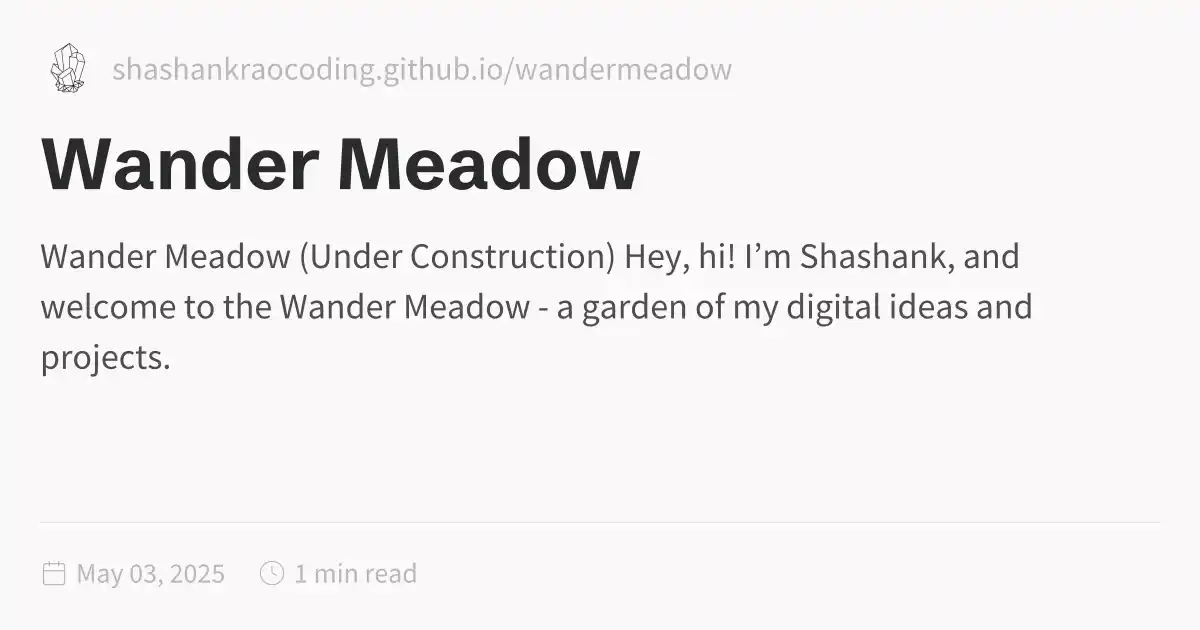
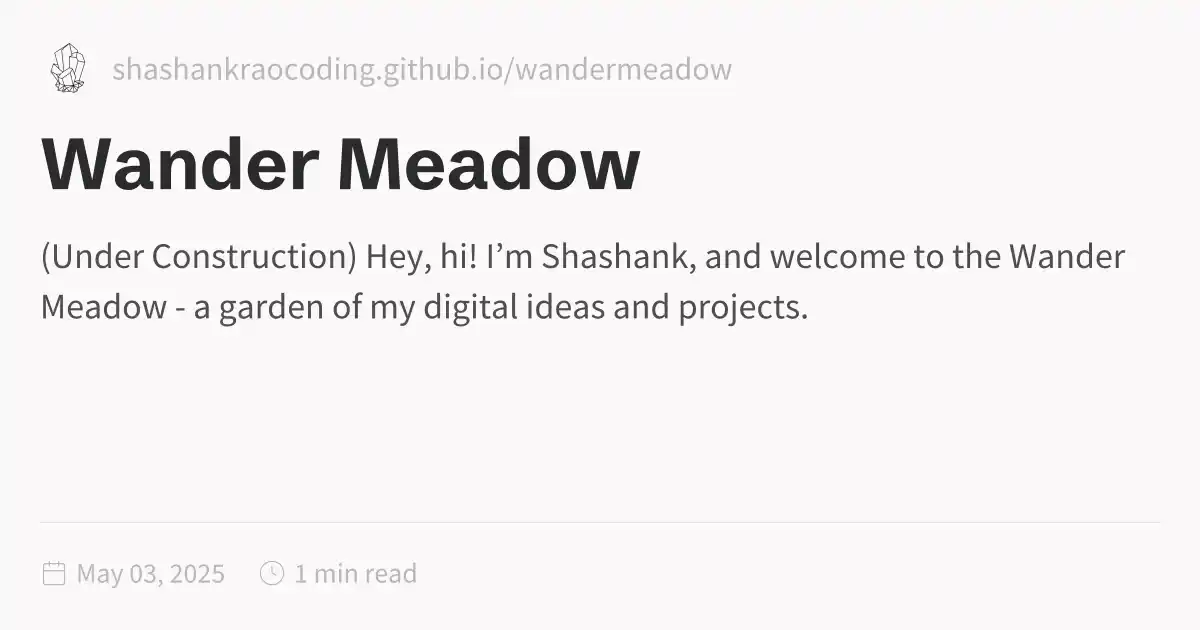
Update public folder - 2025-05-03\_1445

Changed region(s): [[0.0308, 0.3921, 0.9558, 0.5127], [0.0308, 0.5429, 0.1542, 0.6032]]

diff --git a/Wander-Meadow.html b/Wander-Meadow.html
@@ -1,5 +1,5 @@
 <!DOCTYPE html>
-<html lang="en"><head><title>Wander Meadow</title><meta charset="utf-8"/><link rel="preconnect" href="https://fonts.googleapis.com"/><link rel="preconnect" href="https://fonts.gstatic.com"/><link rel="stylesheet" href="https://fonts.googleapis.com/css2?family=Schibsted Grotesk:wght@400;700&amp;family=Source Sans Pro:ital,wght@0,400;0,600;1,400;1,600&amp;family=IBM Plex Mono:wght@400;600&amp;display=swap"/><link rel="preconnect" href="https://cdnjs.cloudflare.com" crossorigin="anonymous"/><meta name="viewport" content="width=device-width, initial-scale=1.0"/><meta name="og:site_name" content="Wander Meadow"/><meta property="og:title" content="Wander Meadow"/><meta property="og:type" content="website"/><meta name="twitter:card" content="summary_large_image"/><meta name="twitter:title" content="Wander Meadow"/><meta name="twitter:description" content="Wander Meadow (Under Construction) Hey, hi! I’m Shashank, and welcome to the Wander Meadow - a garden of my digital ideas and projects."/><meta property="og:description" content="Wander Meadow (Under Construction) Hey, hi! I’m Shashank, and welcome to the Wander Meadow - a garden of my digital ideas and projects."/><meta property="og:image:alt" content="Wander Meadow (Under Construction) Hey, hi! I’m Shashank, and welcome to the Wander Meadow - a garden of my digital ideas and projects."/><meta property="twitter:domain" content="shashankraocoding.github.io/wandermeadow"/><meta property="og:url" content="https://shashankraocoding.github.io/wandermeadow/Wander-Meadow"/><meta property="twitter:url" content="https://shashankraocoding.github.io/wandermeadow/Wander-Meadow"/><link rel="icon" href="./static/icon.png"/><meta name="description" content="Wander Meadow (Under Construction) Hey, hi! I’m Shashank, and welcome to the Wander Meadow - a garden of my digital ideas and projects."/><meta name="generator" content="Quartz"/><link href="./index.css" rel="stylesheet" type="text/css" spa-preserve/><style>.expand-button {
+<html lang="en"><head><title>Wander Meadow</title><meta charset="utf-8"/><link rel="preconnect" href="https://fonts.googleapis.com"/><link rel="preconnect" href="https://fonts.gstatic.com"/><link rel="stylesheet" href="https://fonts.googleapis.com/css2?family=Schibsted Grotesk:wght@400;700&amp;family=Source Sans Pro:ital,wght@0,400;0,600;1,400;1,600&amp;family=IBM Plex Mono:wght@400;600&amp;display=swap"/><link rel="preconnect" href="https://cdnjs.cloudflare.com" crossorigin="anonymous"/><meta name="viewport" content="width=device-width, initial-scale=1.0"/><meta name="og:site_name" content="Wander Meadow"/><meta property="og:title" content="Wander Meadow"/><meta property="og:type" content="website"/><meta name="twitter:card" content="summary_large_image"/><meta name="twitter:title" content="Wander Meadow"/><meta name="twitter:description" content="(Under Construction) Hey, hi! I’m Shashank, and welcome to the Wander Meadow - a garden of my digital ideas and projects."/><meta property="og:description" content="(Under Construction) Hey, hi! I’m Shashank, and welcome to the Wander Meadow - a garden of my digital ideas and projects."/><meta property="og:image:alt" content="(Under Construction) Hey, hi! I’m Shashank, and welcome to the Wander Meadow - a garden of my digital ideas and projects."/><meta property="twitter:domain" content="shashankraocoding.github.io/wandermeadow"/><meta property="og:url" content="https://shashankraocoding.github.io/wandermeadow/Wander-Meadow"/><meta property="twitter:url" content="https://shashankraocoding.github.io/wandermeadow/Wander-Meadow"/><link rel="icon" href="./static/icon.png"/><meta name="description" content="(Under Construction) Hey, hi! I’m Shashank, and welcome to the Wander Meadow - a garden of my digital ideas and projects."/><meta name="generator" content="Quartz"/><link href="./index.css" rel="stylesheet" type="text/css" spa-preserve/><style>.expand-button {
   position: absolute;
   display: flex;
   float: right;
@@ -116,8 +116,7 @@ pre:hover > .expand-button {
   padding: 0 12px;
   font-size: 14px;
 }
[1 lines of base64/hex data omitted]
-<p>(Under Construction)</p>
[1 lines of base64/hex data omitted]
 <p>Hey, hi!</p>
 <p>I’m Shashank, and welcome to the <em>Wander Meadow</em> -  a garden of my digital ideas and projects. Have a wander around, see if you like something! It’s all free to use, and if you’d like to get involved, to me at <a href="https://www.instagram.com/not_shashank_rao/" class="external">my Instagram page<svg aria-hidden="true" class="external-icon" style="max-width:0.8em;max-height:0.8em;" viewBox="0 0 512 512"><path d="M320 0H288V64h32 82.7L201.4 265.4 178.7 288 224 333.3l22.6-22.6L448 109.3V192v32h64V192 32 0H480 320zM32 32H0V64 480v32H32 456h32V480 352 320H424v32 96H64V96h96 32V32H160 32z"></path></svg></a>!</p>
 <h2 id="coding">Coding<a role="anchor" aria-hidden="true" tabindex="-1" data-no-popover="true" href="#coding" class="internal"><svg width="18" height="18" viewBox="0 0 24 24" fill="none" stroke="currentColor" stroke-width="2" stroke-linecap="round" stroke-linejoin="round"><path d="M10 13a5 5 0 0 0 7.54.54l3-3a5 5 0 0 0-7.07-7.07l-1.72 1.71"></path><path d="M14 11a5 5 0 0 0-7.54-.54l-3 3a5 5 0 0 0 7.07 7.07l1.71-1.71"></path></svg></a></h2>
@@ -154,6 +153,6 @@ pre:hover > .expand-button {
                 C46.042,11.405,47.451,12,49,12c3.309,0,6-2.691,6-6S52.309,0,49,0z M11,9c0-1.103,0.897-2,2-2s2,0.897,2,2s-0.897,2-2,2
                 S11,10.103,11,9z M6,51c-2.206,0-4-1.794-4-4s1.794-4,4-4s4,1.794,4,4S8.206,51,6,51z M33,49c0,2.206-1.794,4-4,4s-4-1.794-4-4
                 s1.794-4,4-4S33,46.794,33,49z M29,31c-3.309,0-6-2.691-6-6s2.691-6,6-6s6,2.691,6,6S32.309,31,29,31z M47,41c0,1.103-0.897,2-2,2
-                s-2-0.897-2-2s0.897-2,2-2S47,39.897,47,41z M49,10c-2.206,0-4-1.794-4-4s1.794-4,4-4s4,1.794,4,4S51.206,10,49,10z"></path></svg></button></div><div class="global-graph-outer"><div class="global-graph-container" data-cfg="{&quot;drag&quot;:true,&quot;zoom&quot;:true,&quot;depth&quot;:-1,&quot;scale&quot;:0.9,&quot;repelForce&quot;:0.5,&quot;centerForce&quot;:0.2,&quot;linkDistance&quot;:30,&quot;fontSize&quot;:0.6,&quot;opacityScale&quot;:1,&quot;showTags&quot;:true,&quot;removeTags&quot;:[],&quot;focusOnHover&quot;:true,&quot;enableRadial&quot;:true}"></div></div></div><div class="toc desktop-only"><button type="button" class="toc-header" aria-controls="toc-content" aria-expanded="true"><h3>Table of Contents</h3><svg xmlns="http://www.w3.org/2000/svg" width="24" height="24" viewBox="0 0 24 24" fill="none" stroke="currentColor" stroke-width="2" stroke-linecap="round" stroke-linejoin="round" class="fold"><polyline points="6 9 12 15 18 9"></polyline></svg></button><ul class="toc-content overflow" id="list-1"><li class="depth-0"><a href="#wander-meadow" data-for="wander-meadow">Wander Meadow</a></li><li class="depth-1"><a href="#coding" data-for="coding">Coding</a></li><li class="depth-1"><a href="#literature-" data-for="literature-">Literature 📖</a></li><li class="depth-1"><a href="#music" data-for="music">Music</a></li><li class="depth-1"><a href="#art" data-for="art">Art</a></li><li class="overflow-end"></li></ul></div></div><footer class><p>Created with <a href="https://quartz.jzhao.xyz/">Quartz v4.5.0</a> © 2025</p><ul><li><a href="https://github.com/jackyzha0/quartz">GitHub</a></li><li><a href="https://discord.gg/cRFFHYye7t">Discord Community</a></li></ul></footer></div></div></body><script type="application/javascript">function n(){let t=this.parentElement;t.classList.toggle("is-collapsed");let e=t.getElementsByClassName("callout-content")[0];if(!e)return;let l=t.classList.contains("is-collapsed");e.style.gridTemplateRows=l?"0fr":"1fr"}function c(){let t=document.getElementsByClassName("callout is-collapsible");for(let e of t){let l=e.getElementsByClassName("callout-title")[0],s=e.getElementsByClassName("callout-content")[0];if(!l||!s)continue;l.addEventListener("click",n),window.addCleanup(()=>l.removeEventListener("click",n));let o=e.classList.contains("is-collapsed");s.style.gridTemplateRows=o?"0fr":"1fr"}}document.addEventListener("nav",c);
+                s-2-0.897-2-2s0.897-2,2-2S47,39.897,47,41z M49,10c-2.206,0-4-1.794-4-4s1.794-4,4-4s4,1.794,4,4S51.206,10,49,10z"></path></svg></button></div><div class="global-graph-outer"><div class="global-graph-container" data-cfg="{&quot;drag&quot;:true,&quot;zoom&quot;:true,&quot;depth&quot;:-1,&quot;scale&quot;:0.9,&quot;repelForce&quot;:0.5,&quot;centerForce&quot;:0.2,&quot;linkDistance&quot;:30,&quot;fontSize&quot;:0.6,&quot;opacityScale&quot;:1,&quot;showTags&quot;:true,&quot;removeTags&quot;:[],&quot;focusOnHover&quot;:true,&quot;enableRadial&quot;:true}"></div></div></div><div class="toc desktop-only"><button type="button" class="toc-header" aria-controls="toc-content" aria-expanded="true"><h3>Table of Contents</h3><svg xmlns="http://www.w3.org/2000/svg" width="24" height="24" viewBox="0 0 24 24" fill="none" stroke="currentColor" stroke-width="2" stroke-linecap="round" stroke-linejoin="round" class="fold"><polyline points="6 9 12 15 18 9"></polyline></svg></button><ul class="toc-content overflow" id="list-1"><li class="depth-0"><a href="#coding" data-for="coding">Coding</a></li><li class="depth-0"><a href="#literature-" data-for="literature-">Literature 📖</a></li><li class="depth-0"><a href="#music" data-for="music">Music</a></li><li class="depth-0"><a href="#art" data-for="art">Art</a></li><li class="overflow-end"></li></ul></div></div><footer class><p>Created with <a href="https://quartz.jzhao.xyz/">Quartz v4.5.0</a> © 2025</p><ul><li><a href="https://github.com/jackyzha0/quartz">GitHub</a></li><li><a href="https://discord.gg/cRFFHYye7t">Discord Community</a></li></ul></footer></div></div></body><script type="application/javascript">function n(){let t=this.parentElement;t.classList.toggle("is-collapsed");let e=t.getElementsByClassName("callout-content")[0];if(!e)return;let l=t.classList.contains("is-collapsed");e.style.gridTemplateRows=l?"0fr":"1fr"}function c(){let t=document.getElementsByClassName("callout is-collapsible");for(let e of t){let l=e.getElementsByClassName("callout-title")[0],s=e.getElementsByClassName("callout-content")[0];if(!l||!s)continue;l.addEventListener("click",n),window.addCleanup(()=>l.removeEventListener("click",n));let o=e.classList.contains("is-collapsed");s.style.gridTemplateRows=o?"0fr":"1fr"}}document.addEventListener("nav",c);
 </script><script type="module">function f(i,e){if(!i)return;function r(o){o.target===this&&(o.preventDefault(),o.stopPropagation(),e())}function t(o){o.key.startsWith("Esc")&&(o.preventDefault(),e())}i?.addEventListener("click",r),window.addCleanup(()=>i?.removeEventListener("click",r)),document.addEventListener("keydown",t),window.addCleanup(()=>document.removeEventListener("keydown",t))}function y(i){for(;i.firstChild;)i.removeChild(i.firstChild)}var h=class{constructor(e,r){this.container=e;this.content=r;this.setupEventListeners(),this.setupNavigationControls(),this.resetTransform()}isDragging=!1;startPan={x:0,y:0};currentPan={x:0,y:0};scale=1;MIN_SCALE=.5;MAX_SCALE=3;cleanups=[];setupEventListeners(){let e=this.onMouseDown.bind(this),r=this.onMouseMove.bind(this),t=this.onMouseUp.bind(this),o=this.resetTransform.bind(this);this.container.addEventListener("mousedown",e),document.addEventListener("mousemove",r),document.addEventListener("mouseup",t),window.addEventListener("resize",o),this.cleanups.push(()=>this.container.removeEventListener("mousedown",e),()=>document.removeEventListener("mousemove",r),()=>document.removeEventListener("mouseup",t),()=>window.removeEventListener("resize",o))}cleanup(){for(let e of this.cleanups)e()}setupNavigationControls(){let e=document.createElement("div");e.className="mermaid-controls";let r=this.createButton("+",()=>this.zoom(.1)),t=this.createButton("-",()=>this.zoom(-.1)),o=this.createButton("Reset",()=>this.resetTransform());e.appendChild(t),e.appendChild(o),e.appendChild(r),this.container.appendChild(e)}createButton(e,r){let t=document.createElement("button");return t.textContent=e,t.className="mermaid-control-button",t.addEventListener("click",r),window.addCleanup(()=>t.removeEventListener("click",r)),t}onMouseDown(e){e.button===0&&(this.isDragging=!0,this.startPan={x:e.clientX-this.currentPan.x,y:e.clientY-this.currentPan.y},this.container.style.cursor="grabbing")}onMouseMove(e){this.isDragging&&(e.preventDefault(),this.currentPan={x:e.clientX-this.startPan.x,y:e.clientY-this.startPan.y},this.updateTransform())}onMouseUp(){this.isDragging=!1,this.container.style.cursor="grab"}zoom(e){let r=Math.min(Math.max(this.scale+e,this.MIN_SCALE),this.MAX_SCALE),t=this.content.getBoundingClientRect(),o=t.width/2,n=t.height/2,c=r-this.scale;this.currentPan.x-=o*c,this.currentPan.y-=n*c,this.scale=r,this.updateTransform()}updateTransform(){this.content.style.transform=`translate(${this.currentPan.x}px, ${this.currentPan.y}px) scale(${this.scale})`}resetTransform(){this.scale=1;let e=this.content.querySelector("svg");this.currentPan={x:e.getBoundingClientRect().width/2,y:e.getBoundingClientRect().height/2},this.updateTransform()}},C=["--secondary","--tertiary","--gray","--light","--lightgray","--highlight","--dark","--darkgray","--codeFont"],E;document.addEventListener("nav",async()=>{let e=document.querySelector(".center").querySelectorAll("code.mermaid");if(e.length===0)return;E||=await import("https://cdnjs.cloudflare.com/ajax/libs/mermaid/11.4.0/mermaid.esm.min.mjs");let r=E.default,t=new WeakMap;for(let n of e)t.set(n,n.innerText);async function o(){for(let s of e){s.removeAttribute("data-processed");let a=t.get(s);a&&(s.innerHTML=a)}let n=C.reduce((s,a)=>(s[a]=window.getComputedStyle(document.documentElement).getPropertyValue(a),s),{}),c=document.documentElement.getAttribute("saved-theme")==="dark";r.initialize({startOnLoad:!1,securityLevel:"loose",theme:c?"dark":"base",themeVariables:{fontFamily:n["--codeFont"],primaryColor:n["--light"],primaryTextColor:n["--darkgray"],primaryBorderColor:n["--tertiary"],lineColor:n["--darkgray"],secondaryColor:n["--secondary"],tertiaryColor:n["--tertiary"],clusterBkg:n["--light"],edgeLabelBackground:n["--highlight"]}}),await r.run({nodes:e})}await o(),document.addEventListener("themechange",o),window.addCleanup(()=>document.removeEventListener("themechange",o));for(let n=0;n<e.length;n++){let v=function(){let g=l.querySelector("#mermaid-space"),m=l.querySelector(".mermaid-content");if(!m)return;y(m);let w=c.querySelector("svg").cloneNode(!0);m.appendChild(w),l.classList.add("active"),g.style.cursor="grab",u=new h(g,m)},M=function(){l.classList.remove("active"),u?.cleanup(),u=null},c=e[n],s=c.parentElement,a=s.querySelector(".clipboard-button"),d=s.querySelector(".expand-button"),p=window.getComputedStyle(a),L=a.offsetWidth+parseFloat(p.marginLeft||"0")+parseFloat(p.marginRight||"0");d.style.right=`calc(${L}px + 0.3rem)`,s.prepend(d);let l=s.querySelector("#mermaid-container");if(!l)return;let u=null;d.addEventListener("click",v),f(l,M),window.addCleanup(()=>{u?.cleanup(),d.removeEventListener("click",v)})}});
 </script><script src="https://cdn.jsdelivr.net/npm/katex@0.16.11/dist/contrib/copy-tex.min.js" type="application/javascript"></script><script src="./postscript.js" type="module"></script></html>

diff --git a/index.html b/index.html
@@ -1,5 +1,5 @@
 <!DOCTYPE html>
-<html lang="en"><head><title>Wander Meadow</title><meta charset="utf-8"/><link rel="preconnect" href="https://fonts.googleapis.com"/><link rel="preconnect" href="https://fonts.gstatic.com"/><link rel="stylesheet" href="https://fonts.googleapis.com/css2?family=Schibsted Grotesk:wght@400;700&amp;family=Source Sans Pro:ital,wght@0,400;0,600;1,400;1,600&amp;family=IBM Plex Mono:wght@400;600&amp;display=swap"/><link rel="preconnect" href="https://cdnjs.cloudflare.com" crossorigin="anonymous"/><meta name="viewport" content="width=device-width, initial-scale=1.0"/><meta name="og:site_name" content="Wander Meadow"/><meta property="og:title" content="Wander Meadow"/><meta property="og:type" content="website"/><meta name="twitter:card" content="summary_large_image"/><meta name="twitter:title" content="Wander Meadow"/><meta name="twitter:description" content="Wander Meadow (Under Construction) Hey, hi! I’m Shashank, and welcome to the Wander Meadow - a garden of my digital ideas and projects."/><meta property="og:description" content="Wander Meadow (Under Construction) Hey, hi! I’m Shashank, and welcome to the Wander Meadow - a garden of my digital ideas and projects."/><meta property="og:image:alt" content="Wander Meadow (Under Construction) Hey, hi! I’m Shashank, and welcome to the Wander Meadow - a garden of my digital ideas and projects."/><meta property="twitter:domain" content="shashankraocoding.github.io/wandermeadow"/><meta property="og:url" content="https://shashankraocoding.github.io/wandermeadow/Wander-Meadow"/><meta property="twitter:url" content="https://shashankraocoding.github.io/wandermeadow/Wander-Meadow"/><link rel="icon" href="./static/icon.png"/><meta name="description" content="Wander Meadow (Under Construction) Hey, hi! I’m Shashank, and welcome to the Wander Meadow - a garden of my digital ideas and projects."/><meta name="generator" content="Quartz"/><link href="./index.css" rel="stylesheet" type="text/css" spa-preserve/><style>.expand-button {
+<html lang="en"><head><title>Wander Meadow</title><meta charset="utf-8"/><link rel="preconnect" href="https://fonts.googleapis.com"/><link rel="preconnect" href="https://fonts.gstatic.com"/><link rel="stylesheet" href="https://fonts.googleapis.com/css2?family=Schibsted Grotesk:wght@400;700&amp;family=Source Sans Pro:ital,wght@0,400;0,600;1,400;1,600&amp;family=IBM Plex Mono:wght@400;600&amp;display=swap"/><link rel="preconnect" href="https://cdnjs.cloudflare.com" crossorigin="anonymous"/><meta name="viewport" content="width=device-width, initial-scale=1.0"/><meta name="og:site_name" content="Wander Meadow"/><meta property="og:title" content="Wander Meadow"/><meta property="og:type" content="website"/><meta name="twitter:card" content="summary_large_image"/><meta name="twitter:title" content="Wander Meadow"/><meta name="twitter:description" content="(Under Construction) Hey, hi! I’m Shashank, and welcome to the Wander Meadow - a garden of my digital ideas and projects."/><meta property="og:description" content="(Under Construction) Hey, hi! I’m Shashank, and welcome to the Wander Meadow - a garden of my digital ideas and projects."/><meta property="og:image:alt" content="(Under Construction) Hey, hi! I’m Shashank, and welcome to the Wander Meadow - a garden of my digital ideas and projects."/><meta property="twitter:domain" content="shashankraocoding.github.io/wandermeadow"/><meta property="og:url" content="https://shashankraocoding.github.io/wandermeadow/Wander-Meadow"/><meta property="twitter:url" content="https://shashankraocoding.github.io/wandermeadow/Wander-Meadow"/><link rel="icon" href="./static/icon.png"/><meta name="description" content="(Under Construction) Hey, hi! I’m Shashank, and welcome to the Wander Meadow - a garden of my digital ideas and projects."/><meta name="generator" content="Quartz"/><link href="./index.css" rel="stylesheet" type="text/css" spa-preserve/><style>.expand-button {
   position: absolute;
   display: flex;
   float: right;
@@ -116,8 +116,7 @@ pre:hover > .expand-button {
   padding: 0 12px;
   font-size: 14px;
 }
[1 lines of base64/hex data omitted]
-<p>(Under Construction)</p>
[1 lines of base64/hex data omitted]
 <p>Hey, hi!</p>
 <p>I’m Shashank, and welcome to the <em>Wander Meadow</em> -  a garden of my digital ideas and projects. Have a wander around, see if you like something! It’s all free to use, and if you’d like to get involved, to me at <a href="https://www.instagram.com/not_shashank_rao/" class="external">my Instagram page<svg aria-hidden="true" class="external-icon" style="max-width:0.8em;max-height:0.8em;" viewBox="0 0 512 512"><path d="M320 0H288V64h32 82.7L201.4 265.4 178.7 288 224 333.3l22.6-22.6L448 109.3V192v32h64V192 32 0H480 320zM32 32H0V64 480v32H32 456h32V480 352 320H424v32 96H64V96h96 32V32H160 32z"></path></svg></a>!</p>
 <h2 id="coding">Coding<a role="anchor" aria-hidden="true" tabindex="-1" data-no-popover="true" href="#coding" class="internal"><svg width="18" height="18" viewBox="0 0 24 24" fill="none" stroke="currentColor" stroke-width="2" stroke-linecap="round" stroke-linejoin="round"><path d="M10 13a5 5 0 0 0 7.54.54l3-3a5 5 0 0 0-7.07-7.07l-1.72 1.71"></path><path d="M14 11a5 5 0 0 0-7.54-.54l-3 3a5 5 0 0 0 7.07 7.07l1.71-1.71"></path></svg></a></h2>
@@ -154,6 +153,6 @@ pre:hover > .expand-button {
                 C46.042,11.405,47.451,12,49,12c3.309,0,6-2.691,6-6S52.309,0,49,0z M11,9c0-1.103,0.897-2,2-2s2,0.897,2,2s-0.897,2-2,2
                 S11,10.103,11,9z M6,51c-2.206,0-4-1.794-4-4s1.794-4,4-4s4,1.794,4,4S8.206,51,6,51z M33,49c0,2.206-1.794,4-4,4s-4-1.794-4-4
                 s1.794-4,4-4S33,46.794,33,49z M29,31c-3.309,0-6-2.691-6-6s2.691-6,6-6s6,2.691,6,6S32.309,31,29,31z M47,41c0,1.103-0.897,2-2,2
-                s-2-0.897-2-2s0.897-2,2-2S47,39.897,47,41z M49,10c-2.206,0-4-1.794-4-4s1.794-4,4-4s4,1.794,4,4S51.206,10,49,10z"></path></svg></button></div><div class="global-graph-outer"><div class="global-graph-container" data-cfg="{&quot;drag&quot;:true,&quot;zoom&quot;:true,&quot;depth&quot;:-1,&quot;scale&quot;:0.9,&quot;repelForce&quot;:0.5,&quot;centerForce&quot;:0.2,&quot;linkDistance&quot;:30,&quot;fontSize&quot;:0.6,&quot;opacityScale&quot;:1,&quot;showTags&quot;:true,&quot;removeTags&quot;:[],&quot;focusOnHover&quot;:true,&quot;enableRadial&quot;:true}"></div></div></div><div class="toc desktop-only"><button type="button" class="toc-header" aria-controls="toc-content" aria-expanded="true"><h3>Table of Contents</h3><svg xmlns="http://www.w3.org/2000/svg" width="24" height="24" viewBox="0 0 24 24" fill="none" stroke="currentColor" stroke-width="2" stroke-linecap="round" stroke-linejoin="round" class="fold"><polyline points="6 9 12 15 18 9"></polyline></svg></button><ul class="toc-content overflow" id="list-1"><li class="depth-0"><a href="#wander-meadow" data-for="wander-meadow">Wander Meadow</a></li><li class="depth-1"><a href="#coding" data-for="coding">Coding</a></li><li class="depth-1"><a href="#literature-" data-for="literature-">Literature 📖</a></li><li class="depth-1"><a href="#music" data-for="music">Music</a></li><li class="depth-1"><a href="#art" data-for="art">Art</a></li><li class="overflow-end"></li></ul></div></div><footer class><p>Created with <a href="https://quartz.jzhao.xyz/">Quartz v4.5.0</a> © 2025</p><ul><li><a href="https://github.com/jackyzha0/quartz">GitHub</a></li><li><a href="https://discord.gg/cRFFHYye7t">Discord Community</a></li></ul></footer></div></div></body><script type="application/javascript">function n(){let t=this.parentElement;t.classList.toggle("is-collapsed");let e=t.getElementsByClassName("callout-content")[0];if(!e)return;let l=t.classList.contains("is-collapsed");e.style.gridTemplateRows=l?"0fr":"1fr"}function c(){let t=document.getElementsByClassName("callout is-collapsible");for(let e of t){let l=e.getElementsByClassName("callout-title")[0],s=e.getElementsByClassName("callout-content")[0];if(!l||!s)continue;l.addEventListener("click",n),window.addCleanup(()=>l.removeEventListener("click",n));let o=e.classList.contains("is-collapsed");s.style.gridTemplateRows=o?"0fr":"1fr"}}document.addEventListener("nav",c);
+                s-2-0.897-2-2s0.897-2,2-2S47,39.897,47,41z M49,10c-2.206,0-4-1.794-4-4s1.794-4,4-4s4,1.794,4,4S51.206,10,49,10z"></path></svg></button></div><div class="global-graph-outer"><div class="global-graph-container" data-cfg="{&quot;drag&quot;:true,&quot;zoom&quot;:true,&quot;depth&quot;:-1,&quot;scale&quot;:0.9,&quot;repelForce&quot;:0.5,&quot;centerForce&quot;:0.2,&quot;linkDistance&quot;:30,&quot;fontSize&quot;:0.6,&quot;opacityScale&quot;:1,&quot;showTags&quot;:true,&quot;removeTags&quot;:[],&quot;focusOnHover&quot;:true,&quot;enableRadial&quot;:true}"></div></div></div><div class="toc desktop-only"><button type="button" class="toc-header" aria-controls="toc-content" aria-expanded="true"><h3>Table of Contents</h3><svg xmlns="http://www.w3.org/2000/svg" width="24" height="24" viewBox="0 0 24 24" fill="none" stroke="currentColor" stroke-width="2" stroke-linecap="round" stroke-linejoin="round" class="fold"><polyline points="6 9 12 15 18 9"></polyline></svg></button><ul class="toc-content overflow" id="list-1"><li class="depth-0"><a href="#coding" data-for="coding">Coding</a></li><li class="depth-0"><a href="#literature-" data-for="literature-">Literature 📖</a></li><li class="depth-0"><a href="#music" data-for="music">Music</a></li><li class="depth-0"><a href="#art" data-for="art">Art</a></li><li class="overflow-end"></li></ul></div></div><footer class><p>Created with <a href="https://quartz.jzhao.xyz/">Quartz v4.5.0</a> © 2025</p><ul><li><a href="https://github.com/jackyzha0/quartz">GitHub</a></li><li><a href="https://discord.gg/cRFFHYye7t">Discord Community</a></li></ul></footer></div></div></body><script type="application/javascript">function n(){let t=this.parentElement;t.classList.toggle("is-collapsed");let e=t.getElementsByClassName("callout-content")[0];if(!e)return;let l=t.classList.contains("is-collapsed");e.style.gridTemplateRows=l?"0fr":"1fr"}function c(){let t=document.getElementsByClassName("callout is-collapsible");for(let e of t){let l=e.getElementsByClassName("callout-title")[0],s=e.getElementsByClassName("callout-content")[0];if(!l||!s)continue;l.addEventListener("click",n),window.addCleanup(()=>l.removeEventListener("click",n));let o=e.classList.contains("is-collapsed");s.style.gridTemplateRows=o?"0fr":"1fr"}}document.addEventListener("nav",c);
 </script><script type="module">function f(i,e){if(!i)return;function r(o){o.target===this&&(o.preventDefault(),o.stopPropagation(),e())}function t(o){o.key.startsWith("Esc")&&(o.preventDefault(),e())}i?.addEventListener("click",r),window.addCleanup(()=>i?.removeEventListener("click",r)),document.addEventListener("keydown",t),window.addCleanup(()=>document.removeEventListener("keydown",t))}function y(i){for(;i.firstChild;)i.removeChild(i.firstChild)}var h=class{constructor(e,r){this.container=e;this.content=r;this.setupEventListeners(),this.setupNavigationControls(),this.resetTransform()}isDragging=!1;startPan={x:0,y:0};currentPan={x:0,y:0};scale=1;MIN_SCALE=.5;MAX_SCALE=3;cleanups=[];setupEventListeners(){let e=this.onMouseDown.bind(this),r=this.onMouseMove.bind(this),t=this.onMouseUp.bind(this),o=this.resetTransform.bind(this);this.container.addEventListener("mousedown",e),document.addEventListener("mousemove",r),document.addEventListener("mouseup",t),window.addEventListener("resize",o),this.cleanups.push(()=>this.container.removeEventListener("mousedown",e),()=>document.removeEventListener("mousemove",r),()=>document.removeEventListener("mouseup",t),()=>window.removeEventListener("resize",o))}cleanup(){for(let e of this.cleanups)e()}setupNavigationControls(){let e=document.createElement("div");e.className="mermaid-controls";let r=this.createButton("+",()=>this.zoom(.1)),t=this.createButton("-",()=>this.zoom(-.1)),o=this.createButton("Reset",()=>this.resetTransform());e.appendChild(t),e.appendChild(o),e.appendChild(r),this.container.appendChild(e)}createButton(e,r){let t=document.createElement("button");return t.textContent=e,t.className="mermaid-control-button",t.addEventListener("click",r),window.addCleanup(()=>t.removeEventListener("click",r)),t}onMouseDown(e){e.button===0&&(this.isDragging=!0,this.startPan={x:e.clientX-this.currentPan.x,y:e.clientY-this.currentPan.y},this.container.style.cursor="grabbing")}onMouseMove(e){this.isDragging&&(e.preventDefault(),this.currentPan={x:e.clientX-this.startPan.x,y:e.clientY-this.startPan.y},this.updateTransform())}onMouseUp(){this.isDragging=!1,this.container.style.cursor="grab"}zoom(e){let r=Math.min(Math.max(this.scale+e,this.MIN_SCALE),this.MAX_SCALE),t=this.content.getBoundingClientRect(),o=t.width/2,n=t.height/2,c=r-this.scale;this.currentPan.x-=o*c,this.currentPan.y-=n*c,this.scale=r,this.updateTransform()}updateTransform(){this.content.style.transform=`translate(${this.currentPan.x}px, ${this.currentPan.y}px) scale(${this.scale})`}resetTransform(){this.scale=1;let e=this.content.querySelector("svg");this.currentPan={x:e.getBoundingClientRect().width/2,y:e.getBoundingClientRect().height/2},this.updateTransform()}},C=["--secondary","--tertiary","--gray","--light","--lightgray","--highlight","--dark","--darkgray","--codeFont"],E;document.addEventListener("nav",async()=>{let e=document.querySelector(".center").querySelectorAll("code.mermaid");if(e.length===0)return;E||=await import("https://cdnjs.cloudflare.com/ajax/libs/mermaid/11.4.0/mermaid.esm.min.mjs");let r=E.default,t=new WeakMap;for(let n of e)t.set(n,n.innerText);async function o(){for(let s of e){s.removeAttribute("data-processed");let a=t.get(s);a&&(s.innerHTML=a)}let n=C.reduce((s,a)=>(s[a]=window.getComputedStyle(document.documentElement).getPropertyValue(a),s),{}),c=document.documentElement.getAttribute("saved-theme")==="dark";r.initialize({startOnLoad:!1,securityLevel:"loose",theme:c?"dark":"base",themeVariables:{fontFamily:n["--codeFont"],primaryColor:n["--light"],primaryTextColor:n["--darkgray"],primaryBorderColor:n["--tertiary"],lineColor:n["--darkgray"],secondaryColor:n["--secondary"],tertiaryColor:n["--tertiary"],clusterBkg:n["--light"],edgeLabelBackground:n["--highlight"]}}),await r.run({nodes:e})}await o(),document.addEventListener("themechange",o),window.addCleanup(()=>document.removeEventListener("themechange",o));for(let n=0;n<e.length;n++){let v=function(){let g=l.querySelector("#mermaid-space"),m=l.querySelector(".mermaid-content");if(!m)return;y(m);let w=c.querySelector("svg").cloneNode(!0);m.appendChild(w),l.classList.add("active"),g.style.cursor="grab",u=new h(g,m)},M=function(){l.classList.remove("active"),u?.cleanup(),u=null},c=e[n],s=c.parentElement,a=s.querySelector(".clipboard-button"),d=s.querySelector(".expand-button"),p=window.getComputedStyle(a),L=a.offsetWidth+parseFloat(p.marginLeft||"0")+parseFloat(p.marginRight||"0");d.style.right=`calc(${L}px + 0.3rem)`,s.prepend(d);let l=s.querySelector("#mermaid-container");if(!l)return;let u=null;d.addEventListener("click",v),f(l,M),window.addCleanup(()=>{u?.cleanup(),d.removeEventListener("click",v)})}});
 </script><script src="https://cdn.jsdelivr.net/npm/katex@0.16.11/dist/contrib/copy-tex.min.js" type="application/javascript"></script><script src="./postscript.js" type="module"></script></html>
